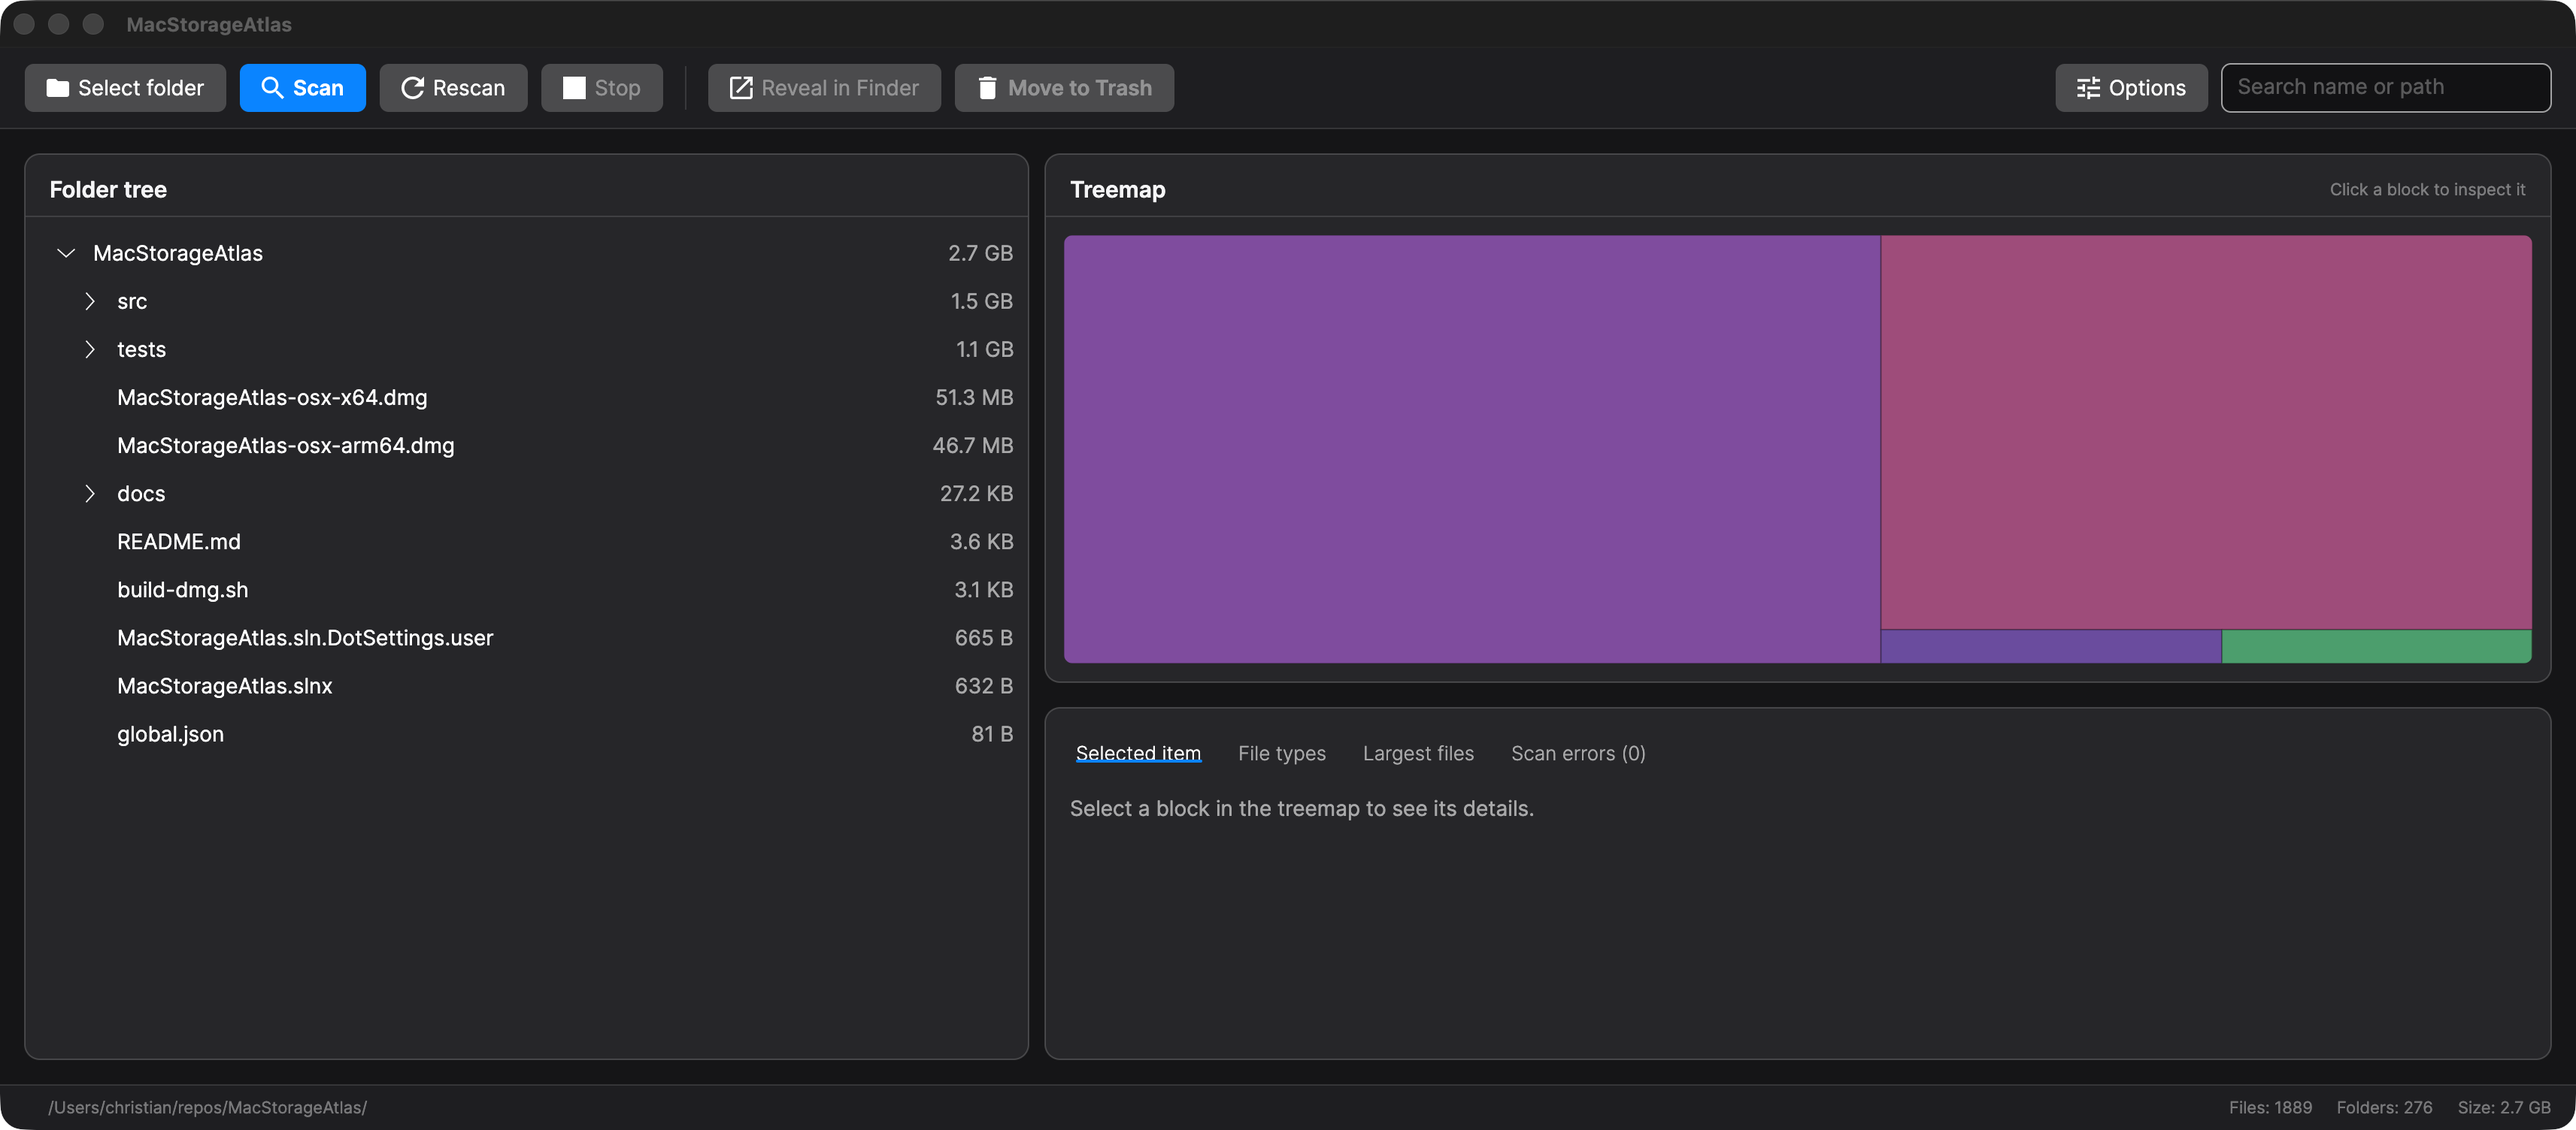
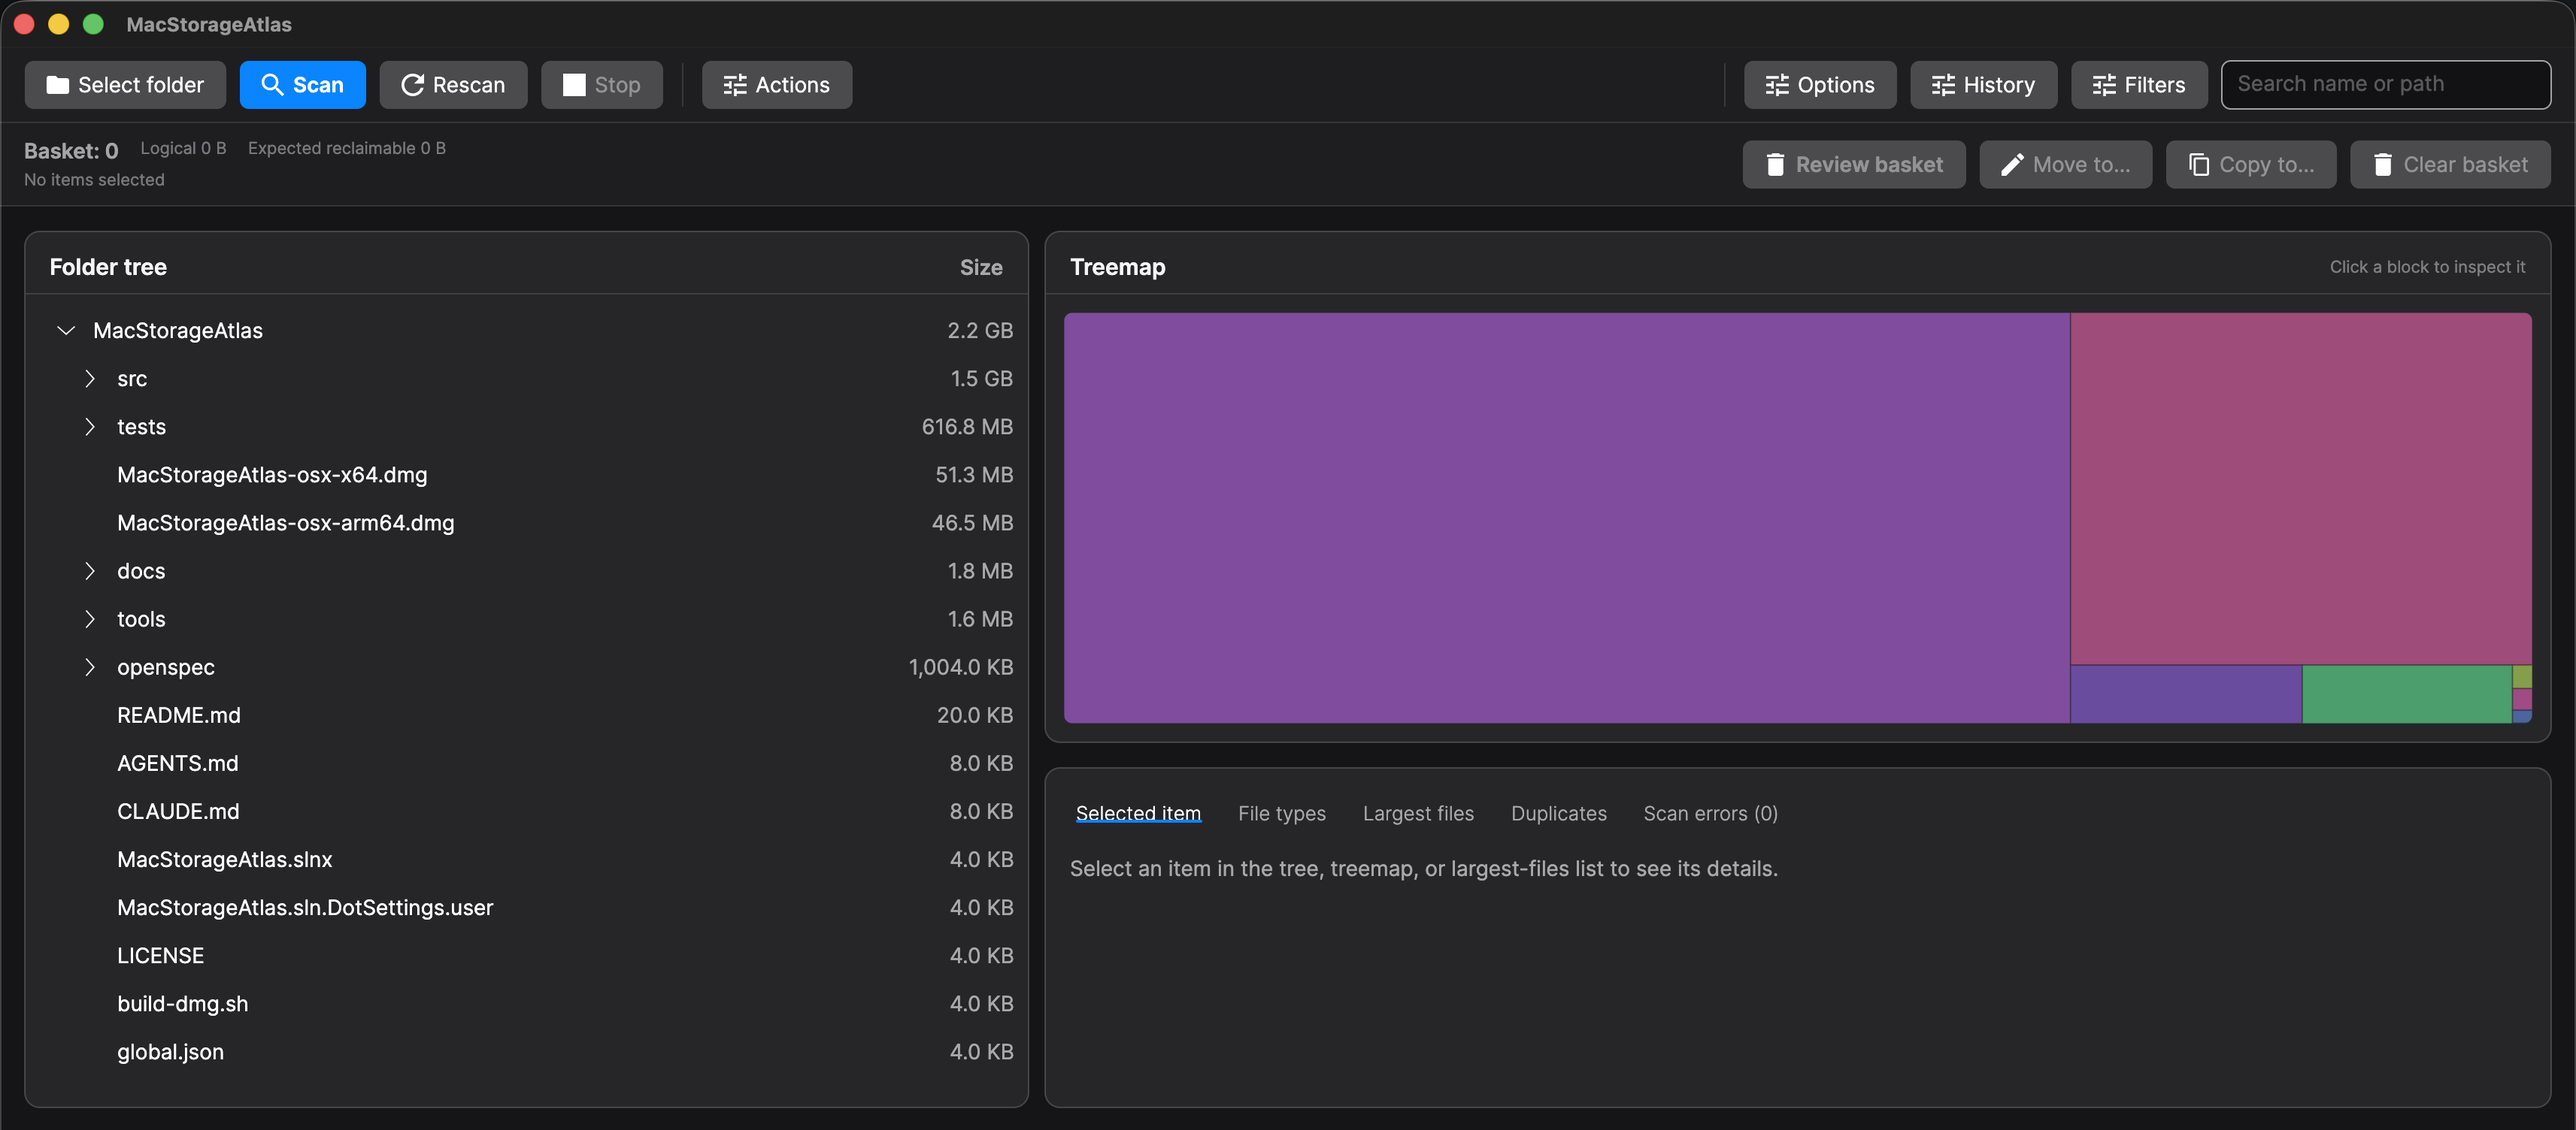
Refresh release documentation

diff --git a/docs/index.html b/docs/index.html
@@ -4,14 +4,14 @@
   <meta charset="utf-8">
   <meta name="viewport" content="width=device-width, initial-scale=1">
   <title>MacStorageAtlas — Free Disk Space Analyzer for macOS (WinDirStat / DaisyDisk Alternative)</title>
-  <meta name="description" content="MacStorageAtlas is a free, open-source disk space analyzer for macOS. See what is using your disk space with a treemap, folder tree, file-type breakdown, and largest-files list. A native WinDirStat, DaisyDisk, and GrandPerspective alternative for Apple Silicon and Intel Macs.">
+  <meta name="description" content="MacStorageAtlas is a free, open-source disk space analyzer for macOS. See what is using your disk space with a treemap, folder tree, file-type breakdown, largest-files list, exact duplicate review, and safe cleanup. A native WinDirStat, DaisyDisk, and GrandPerspective alternative for Apple Silicon and Intel Macs.">
   <link rel="canonical" href="https://lachi90.github.io/MacStorageAtlas/">
 
   <meta name="google-site-verification" content="8VUmQ0Cg6Dk2vkvYoVgFavq4dSONfYK_zpJeLRgYyxg">
 
   <meta property="og:type" content="website">
   <meta property="og:title" content="MacStorageAtlas — Free Disk Space Analyzer for macOS">
-  <meta property="og:description" content="See what's eating your disk. A free, open-source WinDirStat / DaisyDisk alternative for Mac with treemap, folder tree, and safe cleanup.">
+  <meta property="og:description" content="See what's eating your disk. A free, open-source WinDirStat / DaisyDisk alternative for Mac with treemap, folder tree, exact duplicates, and safe cleanup.">
   <meta property="og:url" content="https://lachi90.github.io/MacStorageAtlas/">
   <meta property="og:image" content="https://lachi90.github.io/MacStorageAtlas/images/01-overview.png">
   <meta name="twitter:card" content="summary_large_image">
@@ -23,7 +23,7 @@
     "name": "MacStorageAtlas",
     "applicationCategory": "UtilitiesApplication",
     "operatingSystem": "macOS",
-    "description": "Free, open-source disk space analyzer for macOS. Treemap, folder tree, file-type breakdown, and largest-files list. A WinDirStat / DaisyDisk / GrandPerspective alternative for Apple Silicon and Intel Macs.",
+    "description": "Free, open-source disk space analyzer for macOS. Treemap, folder tree, file-type breakdown, largest-files list, exact duplicate review, and safe cleanup. A WinDirStat / DaisyDisk / GrandPerspective alternative for Apple Silicon and Intel Macs.",
     "offers": { "@type": "Offer", "price": "0", "priceCurrency": "USD" },
     "url": "https://lachi90.github.io/MacStorageAtlas/",
     "downloadUrl": "https://github.com/Lachi90/MacStorageAtlas/releases",
@@ -165,11 +165,12 @@
             <tr><td>Treemap view</td><td>✅</td><td>✅</td><td>✅</td><td>✅</td></tr>
             <tr><td>Folder tree</td><td>✅</td><td>—</td><td>—</td><td>✅</td></tr>
             <tr><td>File-type breakdown</td><td>✅</td><td>—</td><td>—</td><td>✅</td></tr>
-            <tr><td>Real on-disk size (cloud-aware)</td><td>✅</td><td>—</td><td>—</td><td>—</td></tr>
+            <tr><td>Local allocated-size modes</td><td>✅</td><td>✅</td><td>✅</td><td>✅</td></tr>
             <tr><td>Hardlinks counted once</td><td>✅</td><td>✅</td><td>✅</td><td>✅</td></tr>
           </tbody>
         </table>
       </div>
+      <p class="note">Comparison last verified against first-party sources on 2026-08-12. These tools do not use one interchangeable definition of physical, allocated, or reclaimable size.</p>
     </section>
 
     <section>
@@ -195,6 +196,24 @@
           <figcaption>The single largest files on disk</figcaption>
         </figure>
       </div>
+    </section>
+
+    <section>
+      <h2>Review duplicates deliberately</h2>
+      <p>Exact duplicate analysis is opt-in after a scan. It narrows candidates
+      before reading full contents, confirms byte-for-byte equality, reports
+      skipped files, and sends selected duplicate entries through the same
+      Quick Look, Finder reveal, and cleanup-basket review workflow.</p>
+      <img class="shot" src="images/07-duplicates.png" alt="Exact duplicate review tab with matching paths and reclaimable size">
+    </section>
+
+    <section>
+      <h2>Keep cleanup recoverable</h2>
+      <p>Collect scanned items in a basket before acting. MacStorageAtlas blocks
+      broad or sensitive containers, shows the logical and expected reclaimable
+      totals, and can move approved items to Trash or move/copy them to another
+      location without replacing destination files.</p>
+      <img class="shot" src="images/08-cleanup-basket.png" alt="Cleanup basket summary with review, move, copy, and clear actions">
     </section>
 
     <section>

diff --git a/README.md b/README.md
@@ -60,6 +60,8 @@ cloud-only placeholders are skipped instead of downloaded. Duplicate entries
 can be selected for Quick Look, Finder reveal, and the existing cleanup basket,
 but MacStorageAtlas never auto-selects a copy for cleanup.
 
+![Exact duplicate review tab with matching paths and reclaimable size](docs/images/07-duplicates.png)
+
 ### 🔎 Preview, reveal, or move to Trash — safely
 
 Found something to inspect? Preview the selected item with Quick Look, reveal it
@@ -79,6 +81,8 @@ replaced: an item whose name already exists there is blocked with a reason
 rather than overwritten or auto-renamed. A move across volumes copies first,
 verifies the copy, and only then removes the original, so a failed or cancelled
 transfer always leaves the source in place.
+
+![Cleanup basket summary with review, move, copy, and clear actions](docs/images/08-cleanup-basket.png)
 
 ### ⚙ Configurable scanning
 
@@ -155,9 +159,9 @@ remembered between runs.
 - Modern, native-feeling UI that follows the system light/dark appearance, with
   a responsive treemap and a live scan-progress overlay.
 
-> Screenshots above show MacStorageAtlas analyzing its own project folder — build
-> artifacts included — which is why `.pdb`, `.dll`, and `.dmg` files dominate the
-> breakdown.
+> Completed-result screenshots above show MacStorageAtlas analyzing its own
+> project folder — build artifacts included — which is why `.pdb`, `.dll`, and
+> `.dmg` files dominate the breakdown.
 
 > Branding artwork lives under `src/MacStorageAtlas.App/Assets/`: `app.ico` (window
 > icon), `icon.png` (1024×1024 master), and `MacStorageAtlas.icns` for macOS app
@@ -184,7 +188,7 @@ and does not claim unique physical or reclaimable storage. The optional
 per-path mode counts every visited path. DaisyDisk documents full APFS-clone
 detection on macOS 14 Sonoma and later.
 
-Comparison last verified against the linked first-party sources: **2026-07-25**.
+Comparison last verified against the linked first-party sources: **2026-08-12**.
 Prices and capabilities can change; follow the links for current product
 details.
 

diff --git a/docs/IMPLEMENTATION_ROADMAP.md b/docs/IMPLEMENTATION_ROADMAP.md
@@ -59,13 +59,21 @@ The repository already provides:
 - Scan-error collection.
 - Finder reveal and move-to-Trash actions.
 - Logical-size and allocated-size measurement.
+- Shared-aware allocated-size measurement that counts hardlinks once and counts
+  verified full-clone data once where volume capability permits.
 - Options for hidden files, symbolic links, and application bundles.
 - Full Disk Access guidance for permission-related incomplete scans.
 - Manageable recent scan locations and persisted settings.
+- Advanced filters, saved filter presets, CSV and JSON export, and Quick Look
+  inspection.
+- A cleanup basket with reviewed Trash, move, and copy operations.
+- Opt-in local scan-history persistence.
+- Opt-in exact duplicate detection.
 - Self-contained arm64 and x64 DMG packaging.
 
-The main gaps are trusted distribution, exact physical-size accounting,
-metadata-based analysis, multi-item cleanup, and long-term comparison workflows.
+The main gaps are trusted distribution, scan-history comparison, developer
+storage insights, proactive low-storage monitoring, APFS/Time Machine snapshot
+insights, and optional direct cloud-storage scans.
 
 ## Priority and dependency overview
 
@@ -1050,7 +1058,10 @@ A work package is complete only when:
 9. The completed commits are pushed to `codex/storage-feature-roadmap`.
 10. The roadmap checkbox/status is updated in the same or a follow-up commit.
 
-## Recommended first execution sequence
+## Original recommended execution sequence
+
+This sequence records the roadmap's initial implementation order. The status
+table below is the source of truth for the current branch state.
 
 1. WP-00: correct the comparison documentation.
 2. WP-01: establish signed/notarized release infrastructure.
